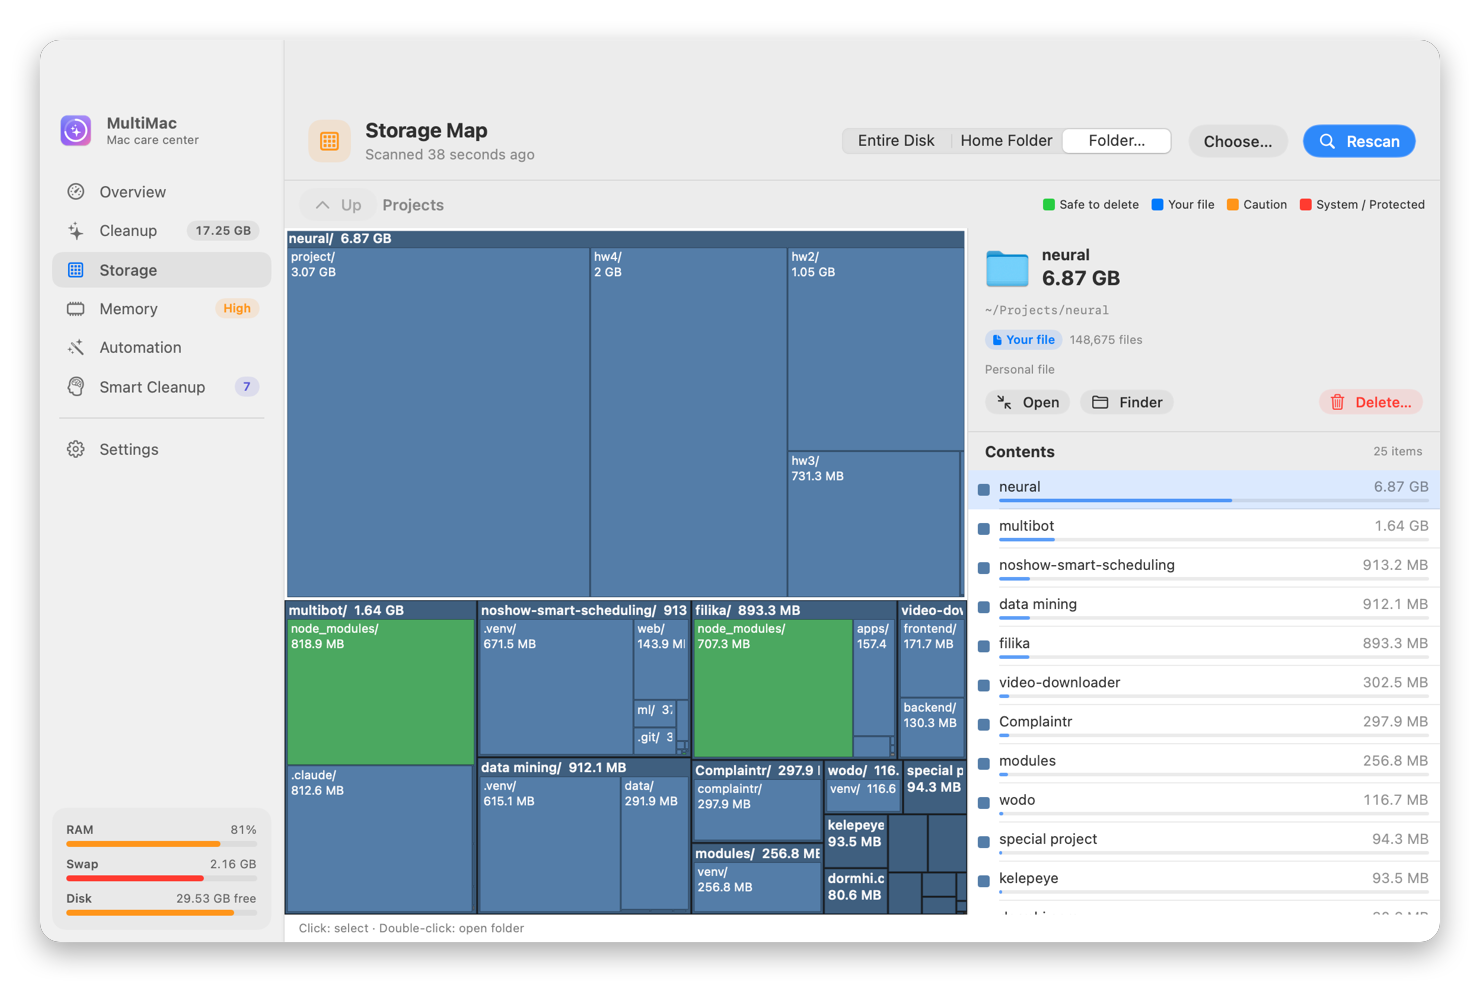
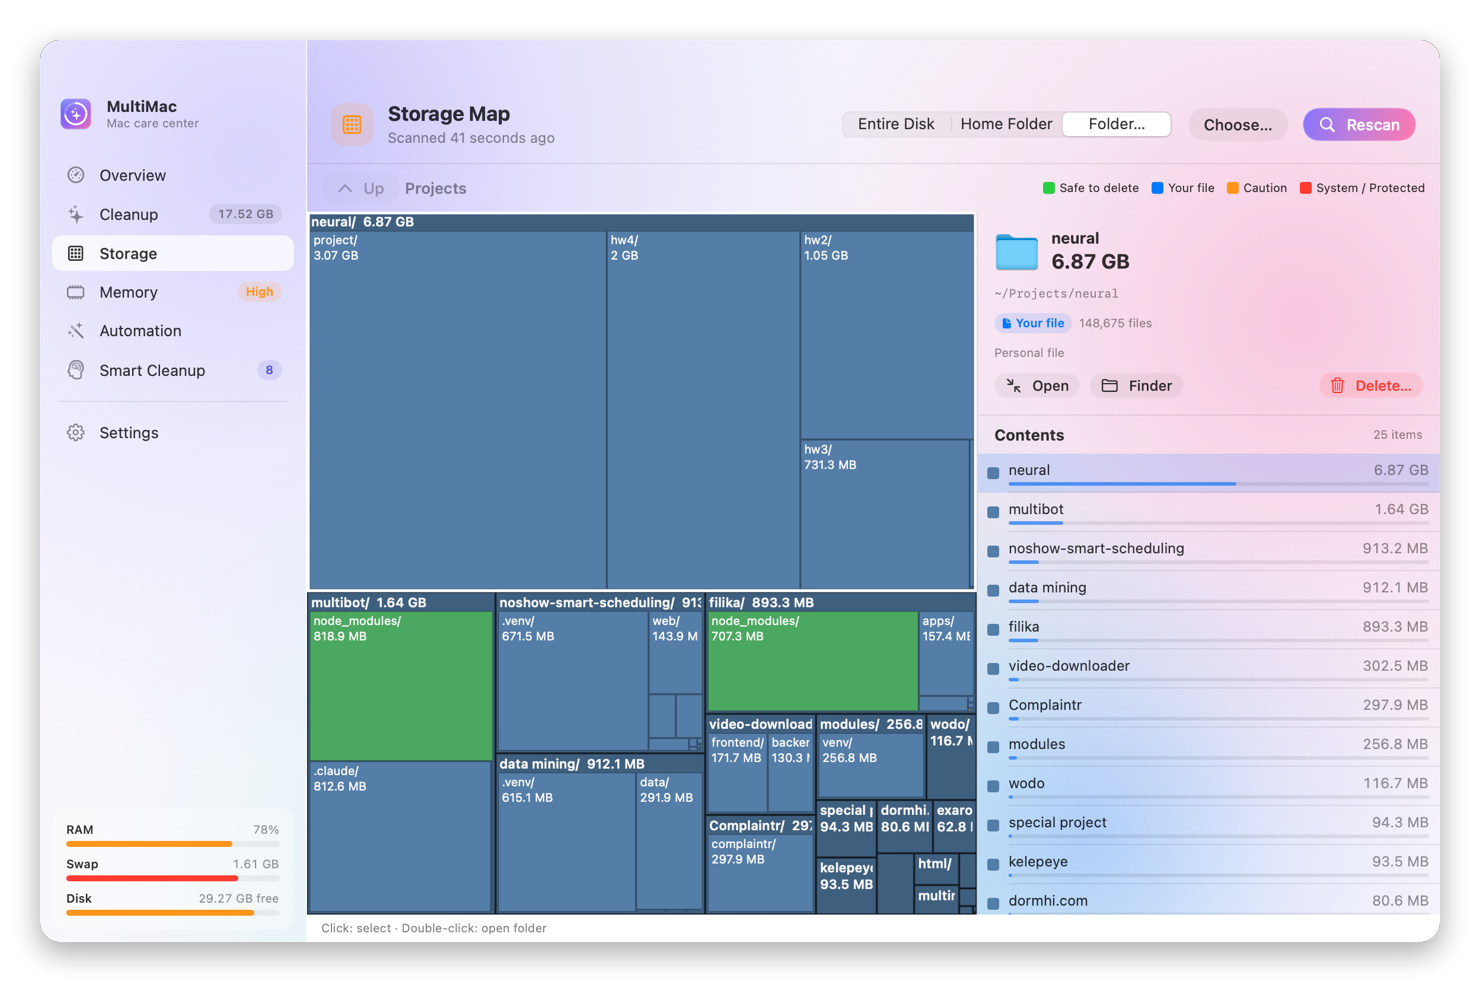
README: glass design description and refreshed screenshots

Changed region(s): [[0.0311, 0.0305, 0.9946, 0.947]]

diff --git a/README.tr.md b/README.tr.md
@@ -78,7 +78,7 @@ MultiMac bunun tersi: alanın ve belleğin tam olarak nereye gittiğini göstere
 | 🤖 **Otomasyon** | Tek tek açılıp kapatılabilen sekiz önbellek kuralı, zamanlama, disk azalınca tetikleme, *ne silinir?* önizlemesi ve bellek sıkıştığında senin seçtiğin uygulamaları kapatan isteğe bağlı RAM rahatlatma. |
 | ✨ **Akıllı Temizlik** | Cihaz üstü küçük bir model (~1 KB) kullanıp bıraktıklarını sıralar: boştaki projelerin `node_modules`'ı, sildiğin uygulamaların kalıntıları, eski Playwright / Node / Python / Homebrew / cihaz sembolü sürümleri, bir kere denediğin yapay zeka modelleri. Her öneri *neden* önerildiğini ve ne kadar emin olduğunu söyler. Temizlediklerinden, gizlediklerinden ve temizlenen klasörlerin geri dolup dolmadığından öğrenir. Hemen geri dolan önbellekleri "temizlemeye değmez" diye ayırır, eski ama önemli dosyaları asla önermez. |
 | 🛡 **Asla dokunma listesi** | Bir öğeye veya projenin tamamına sağ tıklayıp kalıcı olarak hariç tut. Her tarama, kip, otomasyon ve silme motorunun kendisi buna uyar. |
-| 🌓 **Açık, Koyu veya Sistem** | Yumuşak renkli ikonlar, cam kenarlı kartlar ve üzerine gelince belirginleşen butonlarla Apple tonlarında arayüz. Tema *Ayarlar › Görünüm ve dil* bölümünden seçilir. Kenar çubuğu kaybolmak yerine ince bir simge rayına daralır. |
+| 🌓 **Cam görünüm: Açık, Koyu veya Sistem** | Yumuşak mor, pembe ve turkuaz bir zemin üstünde buzlu cam kartlar ve yarı saydam kenar çubuğu; ana eylemler için degrade butonlar. Zemin bir kez çizilir, bulanıklığı ekran kartı yapar; işlemciye ek yük getirmez. Tema *Ayarlar › Görünüm ve dil* bölümünden seçilir. Kenar çubuğu kaybolmak yerine ince bir simge rayına daralır. |
 | 🌐 **Türkçe, İngilizce ve Rusça** | Mac'in diline uyar (macOS Türkçe veya Rusçaysa o dil, değilse İngilizce); Ayarlar'dan istediğin an değiştirilebilir, yeniden başlatma gerekmez. |
 | 🪶 **Hafif** | Yerel SwiftUI, ~55 MB RAM, boştayken < %1 CPU. Root yok, yardımcı yok, arka plan servisi yok. Xcode olmadan derlenir. |
 

diff --git a/README.md b/README.md
@@ -77,7 +77,7 @@ system files**, and stays out of the way in the menu bar.
 | 🤖 **Automation** | Eight cache rules you can toggle one by one, a schedule, low-disk trigger, *what would be deleted?* preview, and optional RAM relief that closes the apps you chose when memory stays tight. |
 | ✨ **Smart Cleanup** | A tiny on-device model (~1 KB) ranks what you used and then left behind: idle projects' `node_modules`, leftovers of apps you removed, old Playwright / Node / Python / Homebrew / device-support versions, AI models you tried once. Every suggestion says *why* and how confident it is. It learns from what you clean, what you hide and whether cleaned folders come back. Caches that refill right away are flagged as not worth cleaning, and old-but-important files are never suggested. |
 | 🛡 **Never touch list** | Right-click any item or whole project to exclude it forever. Respected by every scan, preset, the automation and the deletion engine itself. |
-| 🌓 **Light, Dark or System** | Apple-toned interface with soft tinted icons, glass-edged cards and buttons that fade in on hover. Pick the theme in *Settings › Appearance and language*. The sidebar collapses into a slim icon rail instead of disappearing. |
+| 🌓 **Glass look: Light, Dark or System** | Frosted glass cards and a translucent sidebar over a soft purple, pink and teal background, with gradient buttons for the main actions. The background is drawn once and the blur runs on the GPU, so it costs no extra CPU. Pick the theme in *Settings › Appearance and language*. The sidebar collapses into a slim icon rail instead of disappearing. |
 | 🌐 **Turkish, English and Russian** | Follows your Mac's language (Turkish or Russian if macOS uses it, English otherwise) and can be switched in Settings at any time, no restart needed. |
 | 🪶 **Tiny footprint** | Native SwiftUI, ~55 MB RAM, < 1 % CPU when idle. No root, no helper, no background daemon. Builds without Xcode. |
 
